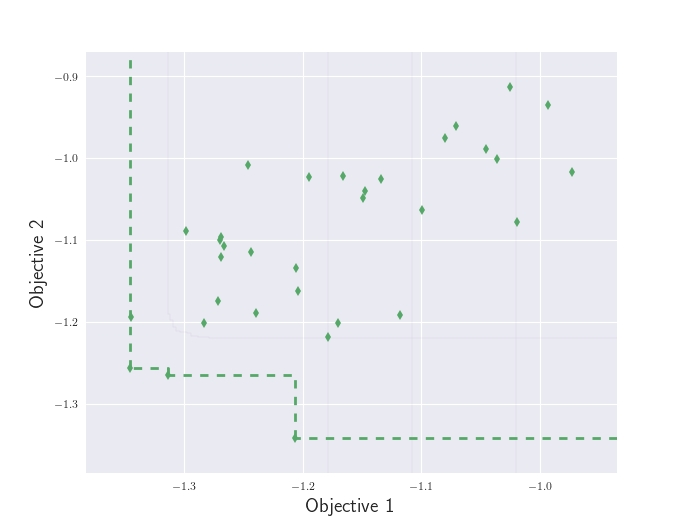
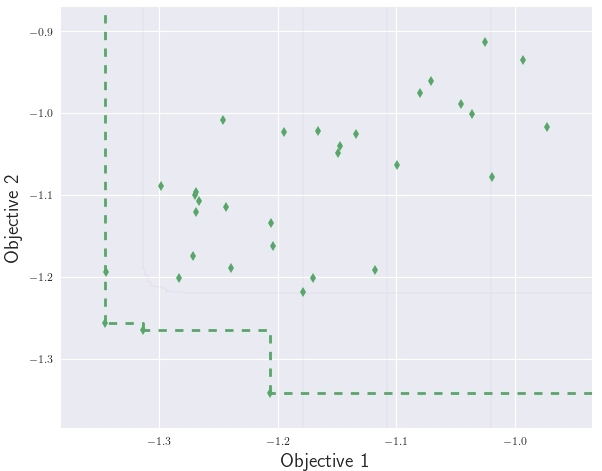
progress on paper draft

diff --git a/Assignments/Week_7/paper_second_draft/Martinez_JuanSebastian_TechPaperDraft.tex b/Assignments/Week_7/paper_second_draft/Martinez_JuanSebastian_TechPaperDraft.tex
@@ -251,24 +251,29 @@ Figure~\ref{fronts} shows the Pareto fronts for the two test cases at the first 
 
 A CVD process was studied to analyze the optimization methodology with real observations from a real experiment. The process takes place in a chamber where different gases with different concentrations turn into plasma to build graphene structures over a copper foil. In this procedure, the Raman spectrum of the foil is used to analyze vibrational properties of the layers of graphene that are deposited from the process. The G/D ratio observed in this spectrum is a variable to be maximized.
 
-In this example, the concentration of the different gases that are pumped inside the chamber constitute a set of seven input variables; and the G/D ratios of the Raman spectrum for the left and right side of the copper foil constitute a set of two output variables to be maximized. For the test case, 33 observations of different concentrations and output G/D ratios were taken, from which 15 were used as initial observations for the tool and 18 were used as experimental designs to perform. The tool selected the optimal designs from the given set of designs and the corresponding results of each experiment where given to the algorithm for the iterative process to continue.
+This experiment is a very expensive procedure that can't be repeated a large number of times, this is why only few observations where available and there is a certain degree of uncertainty in the input variables. Also, the process is a novel technique for manufacturing layers of graphene, so the system is treated as a black-box, as its physical behaviour is not well know. This situation describes a perfect example for the usage of the methodology developed in this study.
+
+In this example, the concentration of the different gases that are pumped inside the chamber constitute a set of seven input variables; and the G/D ratios of the Raman spectrum for the left and right side of the copper foil constitute a set of two output variables to be maximized. For the test case, 33 observations of different concentrations and output G/D ratios were taken, from which 15 were used as initial observations for the tool and 18 were used as experimental designs to perform. The tool selected the optimal designs from the given set of designs and the corresponding results of each experiment where given to the algorithm for the iterative process to continue. Figures \ref{cvd_pareto} and \ref{cvd_results} show the constructed Pareto front of the process and the chosen optimal outputs from the set of 33 real observations.
 
 \begin{figure}[!t]
 \centering
-    \begin{subfigure}{0.45\textwidth}
-        \includegraphics[width=\textwidth]{ParetoFrontImage.jpg}
-        \caption{Final Pareto front for CVD process}
-        \label{pareto_cvd}
-    \end{subfigure}
-    \hfill
-    \begin{subfigure}{0.45\textwidth}
-        \includegraphics[width=\textwidth]{Cu_foil_pareto}
-        \caption{Optimal ouputs for CVD process}
-        \label{optimal_cvd}
-    \end{subfigure}
-\caption{CAPTION}
-\label{fronts}
+    \includegraphics[width=0.6\textwidth]{ParetoFrontImage}
+    \caption{Final Pareto front for the CVD process}
+    \label{pareto_cvd}
+\label{cvd_pareto}
 \end{figure}
+
+In figure \ref{cvd_pareto}, a set of 3 designs where chosen by the algorithm as the set of optimal experiments, whose outputs projected into the GP regressions form the Pareto front of the modeled problem showed in the graph. In this figure, the output variables had their sign inverted, as the algoirithm solves a minimization problem and an maximization of a variable can be interpreted as the minimization of the negative of the variable.
+
+\begin{figure}[!t]
+\centering
+    \includegraphics[width=0.8\textwidth]{Cu_foil_pareto}
+    \caption{Optimal ouputs for the CVD process}
+    \label{optimal_cvd}
+\label{cvd_results}
+\end{figure}
+
+Figure \ref{cvd_results} plots the two objectives for all the 33 observations along with the points corresponding to the 3 chosen experimental designs as the optimal designs, which corresponds to the real Pareto front in the real objective space.
 
 \section{Discussion}
 
@@ -282,18 +287,18 @@ This result has to be interpreted carefully, as the methodology proposed aims to
 
 Considering the tool performance, the simulation times changed differently with every iteration, in general, for the synthetic two-dimensional example, all iterations finished with times lower than 10 minutes. This is a favorable result, as there is a high probability that the real experiment being studied for which the tool is being used can have experiments that last hours or even days.
 
+For the case of the CVD process, figure \ref{cvd_pareto}
+
 \section{Conclusions}
 
 Throughout the process, the appliance of Gaussian process regressions to build surrogates for objective functions proved to be an effective choice for handling uncertainty in black box systems. The methodology was proven to be correct with synthetic and real examples, building accurate Pareto fronts for the cases where it could be constructed. This fronts showed that the Gaussian process surrogates correctly describe the objectives and enable the optimization process to be performed with uncertain data.
 
 The tool created was useful in the sense that it allows experimentalists to obtain an optimal set of designs to apply in their experiments, with no extra costs or inefficient use of resources. The simulation times of the optimization algorithm are reasonable compared to the time-consuming simulation codes or experiments for whom the tool was built.
 
+\subsubsection*{Acknowledgments}
+Acknowledgments
 
 \bibliographystyle{ieeetr}
 \bibliography{SURF_2016}
-
-\section{Mentor Check}
-
-The paper was reviewed by the corresponding mentor, who only made grammar and syntax corrections. He agreed that the contents in the sections were accurate and well described for the purpose of the study. Results of real life applications are still missing due to the lack of data we need, we are waiting for the collaborating group to provide the necessary data for this purpose. The discussion and conclusion sections will be completed as soon as this data is available.
 
 \end{document}
